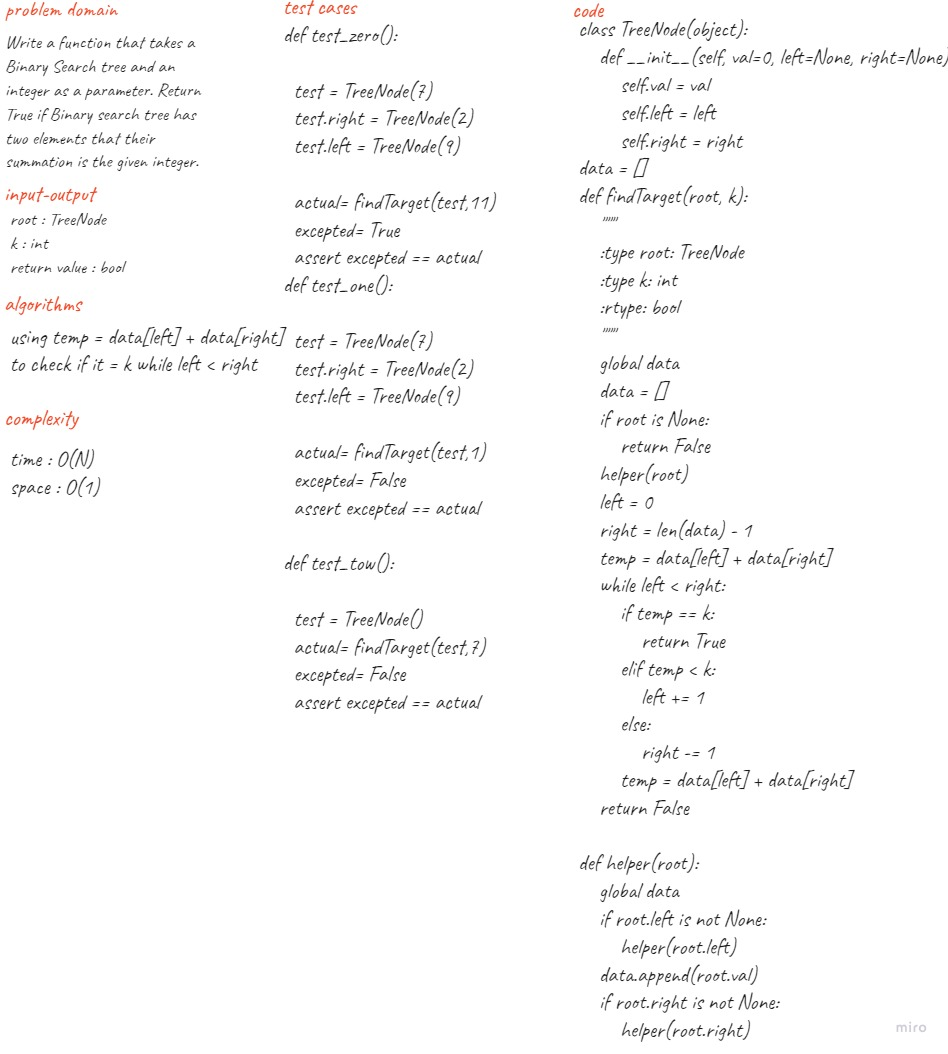
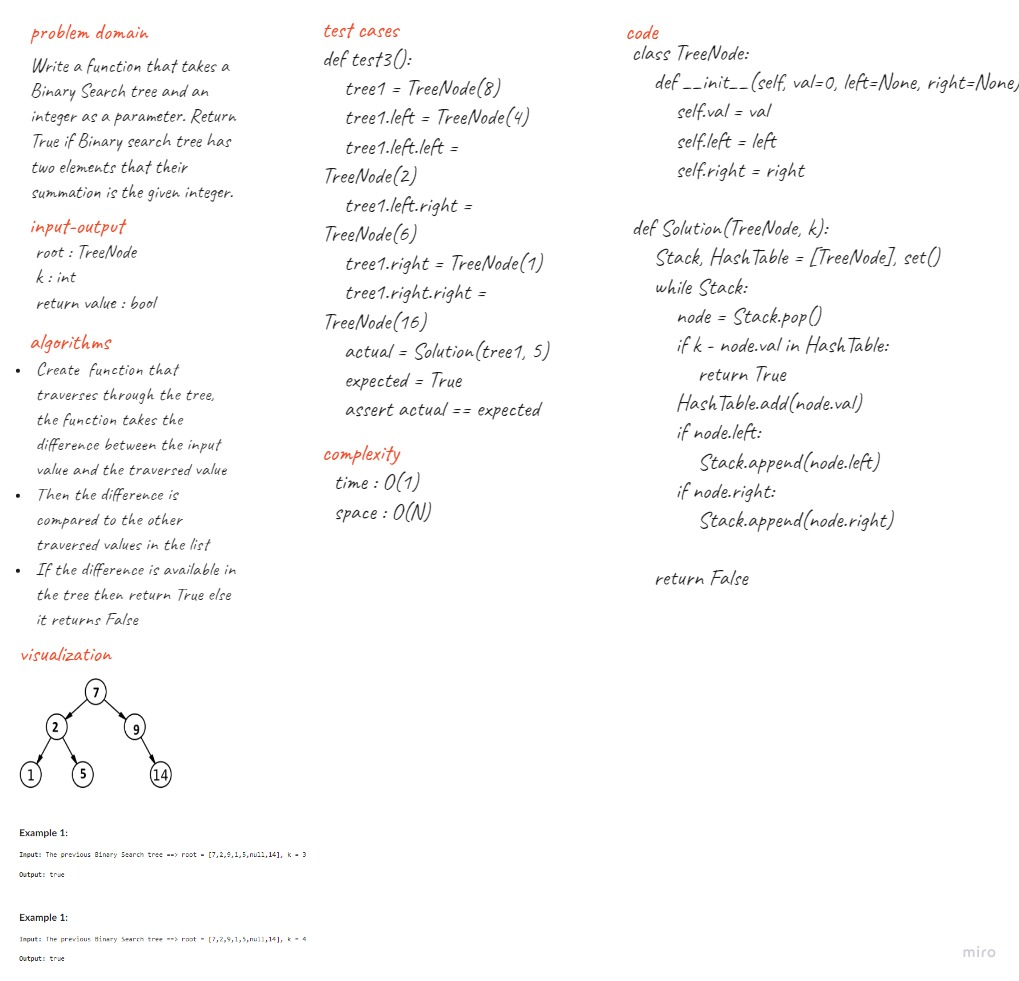
fix

diff --git a/python/code_challenges/hashtable/challenge01/test_challenge01.py b/python/code_challenges/hashtable/challenge01/test_challenge01.py
@@ -1,31 +1,37 @@
 import pytest
+from challenge01 import  *
 
-from challenge01 import *
 
-def test_zero():
-  
-  test = TreeNode(7)
-  test.right = TreeNode(2)
-  test.left = TreeNode(9)
-  
-  actual= findTarget(test,11)
-  excepted= True
-  assert excepted == actual
+def test1():
+    tree1 = TreeNode(7)
+    tree1.left = TreeNode(2)
+    tree1.left.left = TreeNode(1)
+    tree1.left.right = TreeNode(5)
+    tree1.right = TreeNode(9)
+    tree1.right.right = TreeNode(14)
+    actual = Solution(tree1,7)
+    expected = True
+    assert actual == expected
 
-def test_one():
-  
-  test = TreeNode(7)
-  test.right = TreeNode(2)
-  test.left = TreeNode(9)
-  
-  actual= findTarget(test,1)
-  excepted= False
-  assert excepted == actual
-  
-def test_tow():
-  
-  test = TreeNode()
-  actual= findTarget(test,7)
-  excepted= False
-  assert excepted == actual
 
+def test2():
+    tree1 = TreeNode(7)
+    tree1.left = TreeNode(2)
+    tree1.left.left = TreeNode(1)
+    tree1.left.right = TreeNode(5)
+    tree1.right = TreeNode(9)
+    tree1.right.right = TreeNode(14)
+    actual = Solution(tree1, 25)
+    expected = False
+    assert actual == expected
+
+def test3():
+    tree1 = TreeNode(8)
+    tree1.left = TreeNode(4)
+    tree1.left.left = TreeNode(2)
+    tree1.left.right = TreeNode(6)
+    tree1.right = TreeNode(1)
+    tree1.right.right = TreeNode(16)
+    actual = Solution(tree1, 5)
+    expected = True
+    assert actual == expected

diff --git a/python/code_challenges/hashtable/challenge01/challenge01.py b/python/code_challenges/hashtable/challenge01/challenge01.py
@@ -1,38 +1,21 @@
-class TreeNode(object):
+class TreeNode:
     def __init__(self, val=0, left=None, right=None):
         self.val = val
         self.left = left
         self.right = right
-data = []
 
-def findTarget(root, k):
-    """
-    :type root: TreeNode
-    :type k: int
-    :rtype: bool
-    """
-    global data
-    data = []
-    if root is None:
-        return False
-    helper(root)
-    left = 0 
-    right = len(data) - 1
-    temp = data[left] + data[right]
-    while left < right:
-        if temp == k:
+
+
+def Solution(TreeNode, k):
+    Stack, HashTable = [TreeNode], set()
+    while Stack:
+        node = Stack.pop()
+        if k - node.val in HashTable: 
             return True
-        elif temp < k:
-            left += 1
-        else:
-            right -= 1
-        temp = data[left] + data[right]
+        HashTable.add(node.val)
+        if node.left: 
+            Stack.append(node.left)
+        if node.right: 
+            Stack.append(node.right)
+            
     return False
-    
-def helper(root):
-    global data
-    if root.left is not None:
-        helper(root.left)
-    data.append(root.val)
-    if root.right is not None:
-        helper(root.right)
